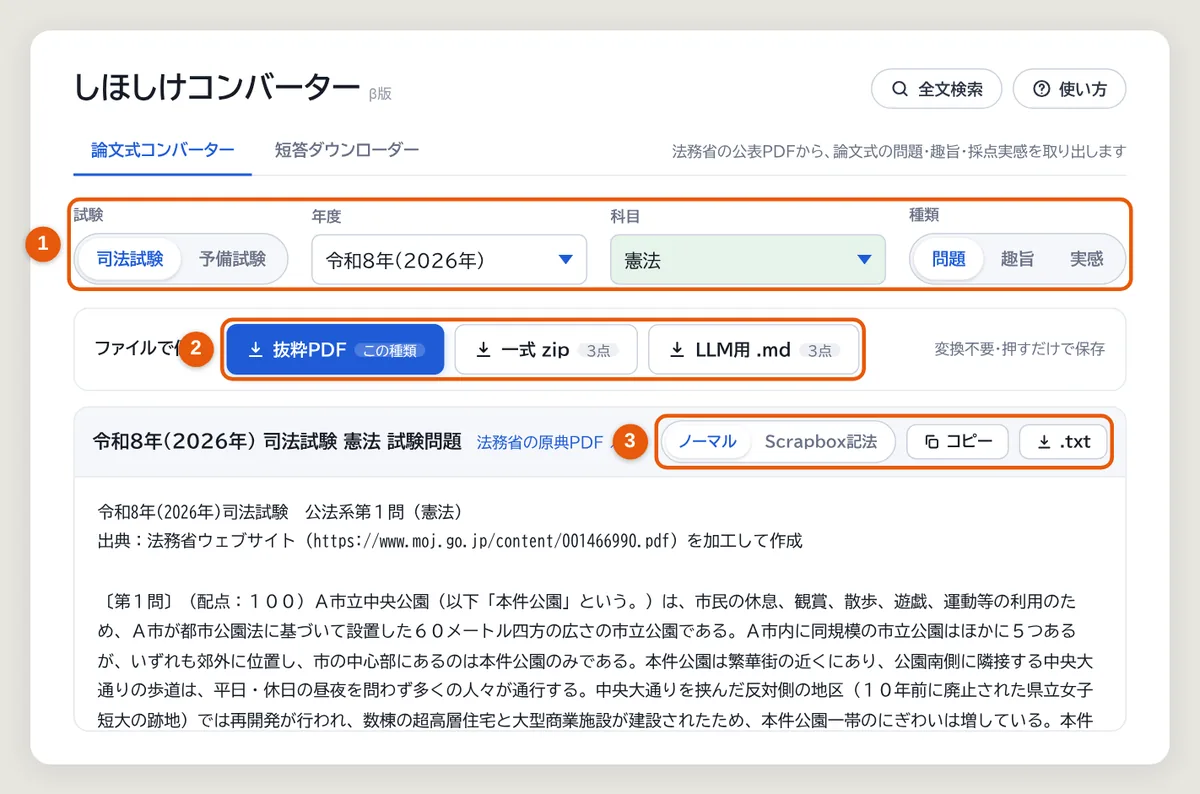
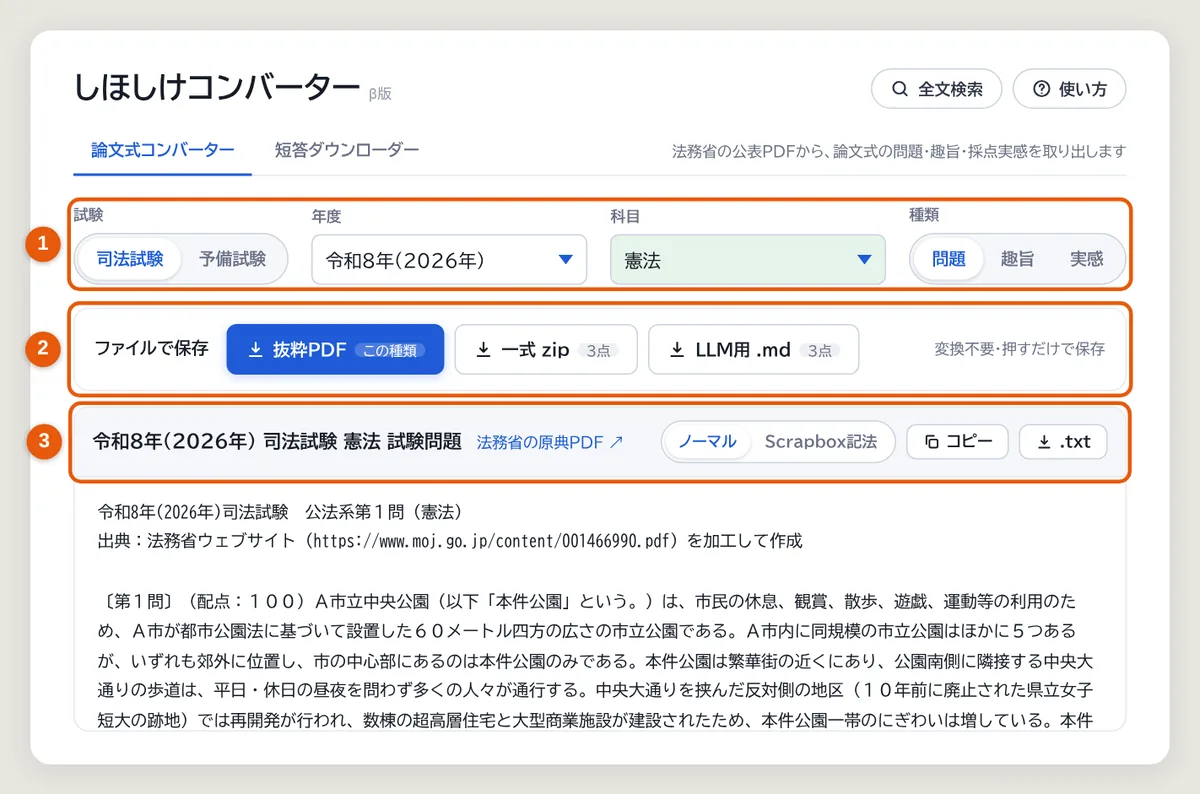
短答の検索カードを見やすくし、ヘルプのスクリーンショットを仕上げる
- 短答式の検索スニペットを一致した設問の頭で止める（前の問の選択肢が混ざらない）
- カードの設問番号を「第5問ほか」の1つにまとめ、件数と重複させない
- 短答ダウンローダーのヘルプに画面構成と全文検索のスクリーンショットを追加
- ヘルプの画面図の注記位置を直し、画像を押すと原寸で開けるようにする

Claude-Session: https://claude.ai/code/session_01UZ9qf677SbJywPmK5QTDfZ

Changed region(s): [[0.0617, 0.3627, 0.9558, 0.6348], [0.0, 0.5139, 0.0617, 0.6045], [0.0, 0.3929, 0.0617, 0.4836]]

diff --git a/search.js b/search.js
@@ -165,9 +165,10 @@ export function preloadSearchIndex(yobi, subjects, tantou = false) {
 }
 
 // ヒット箇所の前後を切り出す（一致部分は before / match / after に分けて返し、
-// 呼び出し側が DOM で安全に強調表示できるようにする）
-function makeSnippet(text, start, end) {
-  const from = Math.max(0, start - SNIPPET_BEFORE);
+// 呼び出し側が DOM で安全に強調表示できるようにする）。minFrom より前は
+// 切り出さない（短答式で、前の問の選択肢が混ざらないよう設問の頭で止める）。
+function makeSnippet(text, start, end, minFrom = 0) {
+  const from = Math.max(0, minFrom, start - SNIPPET_BEFORE);
   const to = Math.min(text.length, end + SNIPPET_AFTER);
   return {
     before: (from > 0 ? "…" : "") + text.slice(from, start),
@@ -179,12 +180,15 @@ function makeSnippet(text, start, end) {
 // 一致箇所より前で最後に現れた設問番号（〔第１２問〕など）。短答式のカードで
 // 「どの問か」を示すのに使う。見つからなければ null。
 const QUESTION_RE = /〔第[0-9０-９]+問〕/g;
-export function questionLabelAt(text, pos) {
-  let label = null;
+function questionAt(text, pos) {
+  let found = null;
   QUESTION_RE.lastIndex = 0;
-  for (let m; (m = QUESTION_RE.exec(text)) && m.index <= pos; )
-    label = m[0].slice(1, -1); // 〔〕を外す
-  return label;
+  for (let m; (m = QUESTION_RE.exec(text)) && m.index <= pos; ) found = m;
+  return found && { label: found[0].slice(1, -1), index: found.index };
+}
+
+export function questionLabelAt(text, pos) {
+  return questionAt(text, pos)?.label ?? null;
 }
 
 // 科目（選択科目は第１問・第２問の2つ）を検索する。types は
@@ -236,14 +240,16 @@ export async function searchSubject({
         // 最初の一致を原文の位置へ戻してスニペットを切り出す
         const start = toOriginal(doc.breaks, first);
         const end = toOriginal(doc.breaks, first + q.length - 1) + 1;
+        // 短答式は一致箇所の設問番号を求め、スニペットをその設問の頭で止める
+        const question = tantou ? questionAt(doc.text, start) : null;
         hits.push({
           yearKey,
           yearLabel: yearKeyToLabel(yearKey),
           subject: subjects[si],
           docType,
           count,
-          snippet: makeSnippet(doc.text, start, end),
-          question: questionLabelAt(doc.text, start),
+          snippet: makeSnippet(doc.text, start, end, question?.index ?? 0),
+          question: question?.label ?? null,
           pdfUrl: doc.pdfUrl,
         });
       }

diff --git a/tantou.html b/tantou.html
@@ -47,7 +47,7 @@
       href="https://fonts.googleapis.com/css2?family=BIZ+UDPGothic:wght@400;700&family=BIZ+UDGothic:wght@400;700&display=swap"
       rel="stylesheet"
     />
-    <link rel="stylesheet" href="./style.css?v=20261102.1405" />
+    <link rel="stylesheet" href="./style.css?v=20261102.1411" />
   </head>
   <body>
     <main class="app">
@@ -104,13 +104,15 @@
             年度や科目が決まっていないときは、③「全文検索」でキーワードから探せます。
           </p>
           <figure class="help-figure">
+            <a href="./img/help/tantou-overview.webp" target="_blank" rel="noopener" title="画像を拡大して開く">
             <img
               src="./img/help/tantou-overview.webp"
               width="1200"
-              height="TANTOU_OVERVIEW_H"
+              height="770"
               loading="lazy"
               alt="画面の構成。①試験・年度・科目の選択欄、②問題PDF・正答・配点PDF・一式zipの保存ボタン、③全文検索のボタン"
             />
+            </a>
             <figcaption>①で選ぶ → ②でPDFを保存。③の全文検索で年度を探すこともできる</figcaption>
           </figure>
         </details>
@@ -129,13 +131,15 @@
             <li>問題PDFから事前に取り出した文字に対して検索するので、法務省ウェブサイトへのアクセスは発生しません。新年度の掲載直後など、まだ文字を取り出していない年度は対象外です。PDFからの自動抽出のため、図表の中の文字などは検索できないことがあります。</li>
           </ul>
           <figure class="help-figure">
+            <a href="./img/help/tantou-search.webp" target="_blank" rel="noopener" title="画像を拡大して開く">
             <img
               src="./img/help/tantou-search.webp"
-              width="TANTOU_SEARCH_W"
-              height="TANTOU_SEARCH_H"
+              width="1032"
+              height="1031"
               loading="lazy"
               alt="短答式の全文検索のダイアログ。キーワードを含む年度が、一致した設問番号つきのカードで並んでいる"
             />
+            </a>
             <figcaption>キーワードを含む年度が設問番号つきのカードで並ぶ。カードを押すと選択欄に入る</figcaption>
           </figure>
         </details>
@@ -405,6 +409,6 @@
       })();
     </script>
 
-    <script type="module" src="./tantou.js?v=20261102.1405"></script>
+    <script type="module" src="./tantou.js?v=20261102.1411"></script>
   </body>
 </html>

diff --git a/index.html b/index.html
@@ -56,7 +56,7 @@
       href="https://fonts.googleapis.com/css2?family=BIZ+UDPGothic:wght@400;700&family=BIZ+UDGothic:wght@400;700&display=swap"
       rel="stylesheet"
     />
-    <link rel="stylesheet" href="./style.css?v=20261102.1405" />
+    <link rel="stylesheet" href="./style.css?v=20261102.1411" />
   </head>
   <body>
     <main class="app">
@@ -111,6 +111,7 @@
             ③テキストは選んだ時点で下の欄に表示されるので、「コピー」または「.txt」で持ち出します。変換ボタンを押す必要はありません。
           </p>
           <figure class="help-figure">
+            <a href="./img/help/converter-overview.webp" target="_blank" rel="noopener" title="画像を拡大して開く">
             <img
               src="./img/help/converter-overview.webp"
               width="1200"
@@ -118,6 +119,7 @@
               loading="lazy"
               alt="画面の構成。①試験・年度・科目・種類の選択欄、②抜粋PDF・一式zip・LLM用.mdの保存ボタン、③出力形式の切り替えとコピー・.txtのボタン"
             />
+            </a>
             <figcaption>①で選ぶ → ②でファイルを保存 → ③でテキストを持ち出す</figcaption>
           </figure>
         </details>
@@ -152,6 +154,7 @@
             <li>検索は事前変換データから作った索引に対して行うので、法務省ウェブサイトへのアクセスは発生しません（変換データが無い年度は対象外）。索引は科目ごとに読み込んで保持するので、同じ科目の再検索はすぐに終わります。</li>
           </ul>
           <figure class="help-figure">
+            <a href="./img/help/converter-search.webp" target="_blank" rel="noopener" title="画像を拡大して開く">
             <img
               src="./img/help/converter-search.webp"
               width="1032"
@@ -159,6 +162,7 @@
               loading="lazy"
               alt="全文検索のダイアログ。憲法で「表現の自由」を検索し、令和7年の試験問題・出題の趣旨・採点実感がカードで並んでいる"
             />
+            </a>
             <figcaption>キーワードを含む年度・種類がカードで並ぶ。カードを押すと選択欄に入る</figcaption>
           </figure>
         </details>
@@ -522,6 +526,6 @@
       crossorigin="anonymous"
       type="module"
     ></script>
-    <script type="module" src="./app.js?v=20261102.1405"></script>
+    <script type="module" src="./app.js?v=20261102.1411"></script>
   </body>
 </html>

diff --git a/ui.js b/ui.js
@@ -170,13 +170,13 @@ export function buildHitCard(hit, opts, onPick) {
   tag("hit-year", hit.yearLabel);
   if (showSubject) tag("hit-type hit-subject", hit.subject);
   if (showDocType) tag("hit-type", hit.docType);
-  if (showQuestion && hit.question) tag("hit-type hit-question", hit.question);
-  tag(
-    "hit-count",
-    showQuestion && hit.question && hit.count > 1
-      ? `${hit.question}ほか 計${hit.count}件`
-      : `${hit.count}件`,
-  );
+  // 短答式は最初に一致した設問番号（件数が複数なら他の問にも一致している）
+  if (showQuestion && hit.question)
+    tag(
+      "hit-type hit-question",
+      hit.count > 1 ? `${hit.question}ほか` : hit.question,
+    );
+  tag("hit-count", `${hit.count}件`);
 
   const snip = document.createElement("div");
   snip.className = "hit-snippet";

diff --git a/style.css b/style.css
@@ -1660,3 +1660,9 @@ textarea {
 #help-dialog .help-notes li + li {
   margin-top: 2px;
 }
+
+/* 画像を押すと原寸で開く */
+.help-figure a {
+  display: block;
+  cursor: zoom-in;
+}
